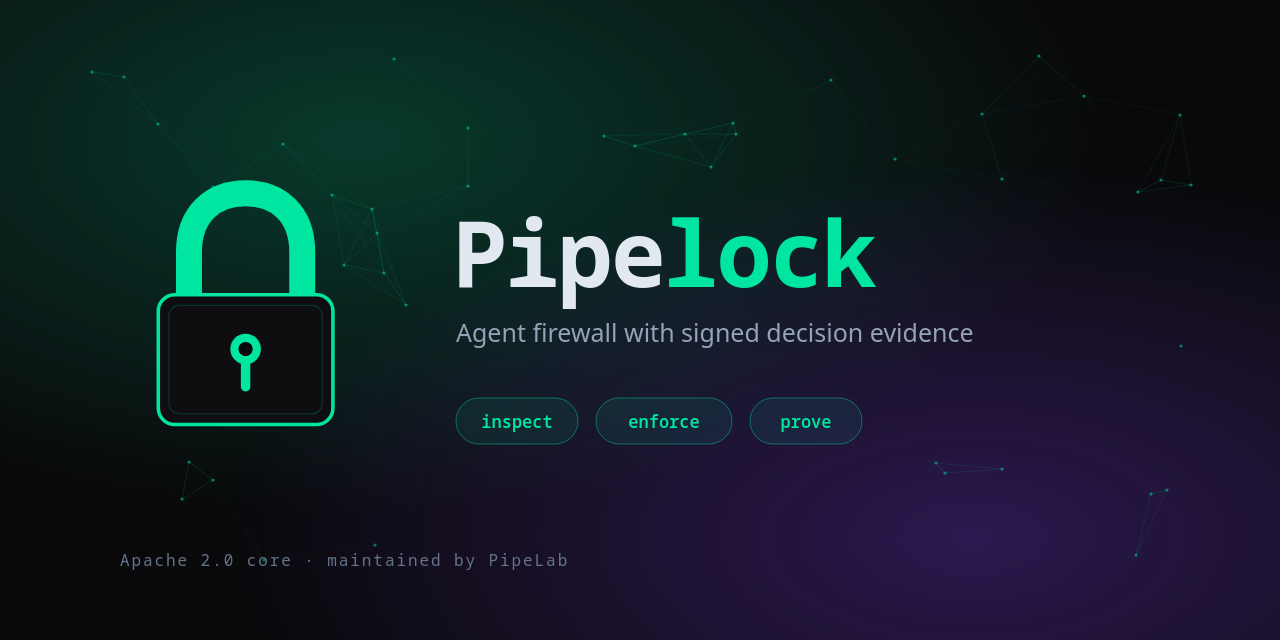
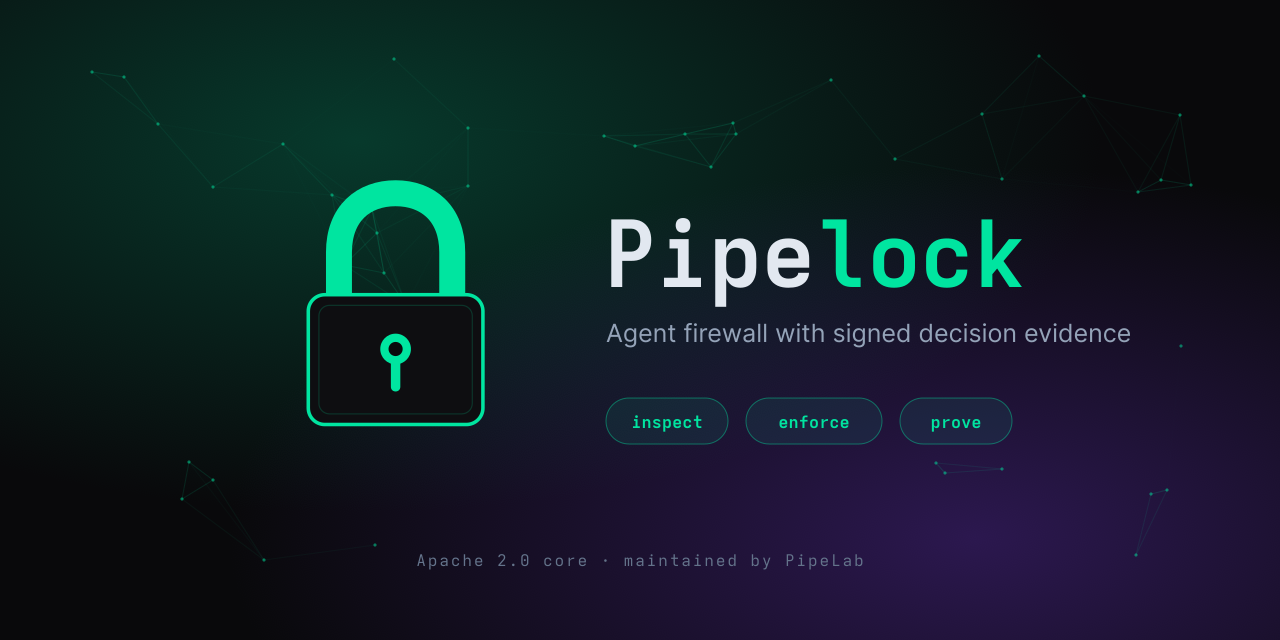
fix(brand): center social preview artwork

diff --git a/scripts/render_brand.py b/scripts/render_brand.py
@@ -88,15 +88,17 @@ def social_preview() -> str:
   </defs>
   <rect width="1280" height="640" fill="{BG}"/><rect width="1280" height="640" fill="url(#teal)"/><rect width="1280" height="640" fill="url(#purple)"/>
 {particles()}
-  <g transform="translate(104 172) scale(1.18)">{mark()}</g>
-  <text x="452" y="287" font-family="{MONO}" font-size="92" font-weight="700" letter-spacing="-.025em"><tspan fill="{TEXT}">Pipe</tspan><tspan fill="{ACCENT}">lock</tspan></text>
-  <text x="456" y="342" font-family="{SANS}" font-size="25" fill="{MUTED}">Agent firewall with signed decision evidence</text>
-  <g font-family="{MONO}" font-size="17" font-weight="600" text-anchor="middle">
-    <rect x="456" y="398" width="122" height="46" rx="23" fill="{ACCENT}" fill-opacity=".08" stroke="{ACCENT}" stroke-opacity=".42"/><text x="517" y="428" fill="{ACCENT}">inspect</text>
-    <rect x="596" y="398" width="136" height="46" rx="23" fill="{ACCENT}" fill-opacity=".08" stroke="{ACCENT}" stroke-opacity=".42"/><text x="664" y="428" fill="{ACCENT}">enforce</text>
-    <rect x="750" y="398" width="112" height="46" rx="23" fill="{ACCENT}" fill-opacity=".08" stroke="{ACCENT}" stroke-opacity=".42"/><text x="806" y="428" fill="{ACCENT}">prove</text>
+  <g transform="translate(150)">
+    <g transform="translate(104 172) scale(1.18)">{mark()}</g>
+    <text x="452" y="287" font-family="{MONO}" font-size="92" font-weight="700" letter-spacing="-.025em"><tspan fill="{TEXT}">Pipe</tspan><tspan fill="{ACCENT}">lock</tspan></text>
+    <text x="456" y="342" font-family="{SANS}" font-size="25" fill="{MUTED}">Agent firewall with signed decision evidence</text>
+    <g font-family="{MONO}" font-size="17" font-weight="600" text-anchor="middle">
+      <rect x="456" y="398" width="122" height="46" rx="23" fill="{ACCENT}" fill-opacity=".08" stroke="{ACCENT}" stroke-opacity=".42"/><text x="517" y="428" fill="{ACCENT}">inspect</text>
+      <rect x="596" y="398" width="136" height="46" rx="23" fill="{ACCENT}" fill-opacity=".08" stroke="{ACCENT}" stroke-opacity=".42"/><text x="664" y="428" fill="{ACCENT}">enforce</text>
+      <rect x="750" y="398" width="112" height="46" rx="23" fill="{ACCENT}" fill-opacity=".08" stroke="{ACCENT}" stroke-opacity=".42"/><text x="806" y="428" fill="{ACCENT}">prove</text>
+    </g>
   </g>
-  <text x="120" y="566" font-family="{MONO}" font-size="16" fill="{DIM}" letter-spacing=".12em">{FOOTER}</text>
+  <text x="640" y="566" text-anchor="middle" font-family="{MONO}" font-size="16" fill="{DIM}" letter-spacing=".12em">{FOOTER}</text>
 </svg>
 '''
 
@@ -109,6 +111,11 @@ def source_file(png: str) -> Path:
     return ASSETS / f"{png}.source"
 
 
+def raster_fingerprint(png: Path, svg: Path) -> str:
+    """Bind a raster provenance record to both its SVG source and PNG bytes."""
+    return f"svg {hashlib.sha256(svg.read_bytes()).hexdigest()}\npng {hashlib.sha256(png.read_bytes()).hexdigest()}\n"
+
+
 def check() -> list[str]:
     problems = []
     for filename, render in GENERATED.items():
@@ -116,11 +123,14 @@ def check() -> list[str]:
         if not path.exists() or path.read_text(encoding="utf-8") != render():
             problems.append(f"assets/{filename}: missing or stale; run scripts/render_brand.py")
     for png, svg in RASTERS.items():
+        png_path = ASSETS / png
+        svg_path = ASSETS / svg
         stamp = source_file(png)
-        if not (ASSETS / png).exists() or not stamp.exists():
+        if not png_path.exists() or not svg_path.exists() or not stamp.exists():
             problems.append(f"assets/{png}: raster or provenance sidecar missing")
-        elif stamp.read_text(encoding="utf-8").strip() != hashlib.sha256((ASSETS / svg).read_bytes()).hexdigest():
-            problems.append(f"assets/{png}: exported from an older assets/{svg}")
+            continue
+        if stamp.read_text(encoding="utf-8") != raster_fingerprint(png_path, svg_path):
+            problems.append(f"assets/{png}: PNG or assets/{svg} changed since export")
     for path in (ASSETS / "pipelock-logo.svg", ASSETS / "pipelock-favicon.svg", ASSETS / "social-preview.svg"):
         if path.exists() and "#00ffc8" in path.read_text(encoding="utf-8").lower():
             problems.append(f"{path.relative_to(ROOT)}: contains retired #00ffc8 cyan")
@@ -134,7 +144,12 @@ def main() -> int:
     args = parser.parse_args()
     if args.stamp_png:
         for png, svg in RASTERS.items():
-            source_file(png).write_text(hashlib.sha256((ASSETS / svg).read_bytes()).hexdigest() + "\n", encoding="utf-8")
+            png_path = ASSETS / png
+            svg_path = ASSETS / svg
+            if not png_path.exists() or not svg_path.exists():
+                print(f"cannot stamp assets/{png}: raster or assets/{svg} missing")
+                return 1
+            source_file(png).write_text(raster_fingerprint(png_path, svg_path), encoding="utf-8")
             print(f"stamped assets/{png}.source")
         return 0
     if args.check:
